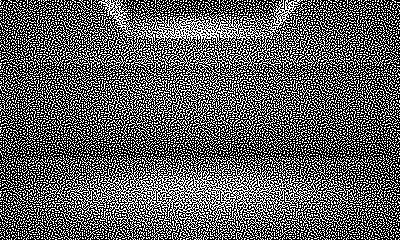
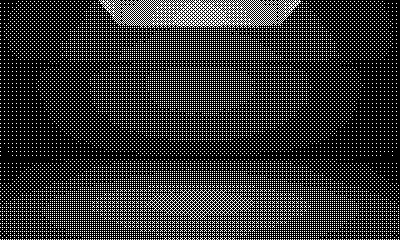
Update lighting system
Account for light attenuation, and use the light's power as a factor for
the calculation instead of always assuming full brightness.

diff --git a/Sources/Renzo/Graphics/SceneRenderer.swift b/Sources/Renzo/Graphics/SceneRenderer.swift
@@ -117,12 +117,14 @@ open class SceneRenderer {
     ///
     /// A face's brightness consists of tow major components: the face's color, and the lights in the scene.
     public func getBrightness(of face: TriFace3D) -> Float {
-        var brightness: Float = 0
+        var brightness: Float = scene.ambientLight
         for light in scene.lights {
-            let lightOffset = (light - face.centroid).normalized()
-            brightness += max(0, face.normal.normalized().dotProduct(with: lightOffset))
+            let lightness = calculateLightnessValue(from: light, onto: face)
+            if lightness < 0 {
+                continue
+            }
+            brightness += max(0, lightness)
         }
-
         brightness *= face.color
         return brightness
     }
@@ -179,6 +181,18 @@ open class SceneRenderer {
     }
 
     // MARK: - Internal Mechanisms
+
+    func calculateLightnessValue(from light: Light3D, onto face: TriFace3D) -> Float {
+        // Handle attenuation/light falloff.
+        let distanceFromFace = light.position - face.centroid
+        let attenuation = 1.0 - distanceFromFace.length / light.falloff
+        if attenuation <= 0 { return -1 }
+
+        let lightOffset = distanceFromFace.normalized()
+        let faceNormal = face.normal.normalized()
+        let rawLight = faceNormal.dotProduct(with: lightOffset)
+        return rawLight * light.power
+    }
 
     private func loadSceneObjectsFromScene() {
         for model in scene.models {

diff --git a/Sources/Renzo/Scenes/Scene3D.swift b/Sources/Renzo/Scenes/Scene3D.swift
@@ -10,6 +10,9 @@
 /// Scenes consist of at least a single camera and can optionally contain models. Rather than storing the models
 /// directly, references are stored that map to an existing model in the game's resources.
 public struct Scene3D: Equatable {
+    /// The scene's ambient light color.
+    public var ambientLight: Float
+
     /// The cameras in the scene.
     public var cameras: [Camera3D]
 
@@ -19,13 +22,14 @@ public struct Scene3D: Equatable {
     /// The point lights in the scene.
     public var lights: [Light3D]
 
-    public init(cameras: [Camera3D], models: [ModelReference] = [], lights: [Light3D] = []) {
+    public init(ambient: Float = 0.051, cameras: [Camera3D], models: [ModelReference] = [], lights: [Light3D] = []) {
+        self.ambientLight = ambient
         self.cameras = cameras
         self.models = models
         self.lights = lights
     }
 
     public var description: String {
-        "Scene(cameras: \(cameras.count), models: \(models.count), lights: \(lights.count))"
+        "Scene(ambient: \(ambientLight), cameras: \(cameras.count), models: \(models.count), lights: \(lights.count))"
     }
 }

diff --git a/Sources/Renzo/Extensions/IO/Scene3D+FileRead.swift b/Sources/Renzo/Extensions/IO/Scene3D+FileRead.swift
@@ -24,6 +24,7 @@ extension Scene3D {
         var cameras = [Camera3D]()
         var modelRefs = [ModelReference]()
         var lights = [Light3D]()
+        var ambientLight: Float = 0
 
         guard File.fileExists(at: path) else {
             throw .readerEmptyOrUnknownFile
@@ -38,6 +39,7 @@ extension Scene3D {
             throw .readerHeaderMismatch
         }
 
+        ambientLight = Float(reading: file)
         cameras = try Self.loadCameras(from: &file)
 
         if FileReadingUtils.expectText("refs", bytes: 4, in: &file) {
@@ -61,6 +63,7 @@ extension Scene3D {
             throw .readerCorruptFile
         }
 
+        self.ambientLight = ambientLight
         self.cameras = cameras
         self.models = modelRefs
         self.lights = lights

diff --git a/Sources/Renzo/Scenes/Light3D.swift b/Sources/Renzo/Scenes/Light3D.swift
@@ -11,6 +11,9 @@ public struct Light3D: Equatable {
     public var position: Point3D
 
     /// The energy of the light.
+    ///
+    /// Light energy is represented as the intensity of the light relative to the brightest light in the scene and sits
+    /// in the 0-1 range.
     public var power: Float
 
     /// The falloff distance of the light.
